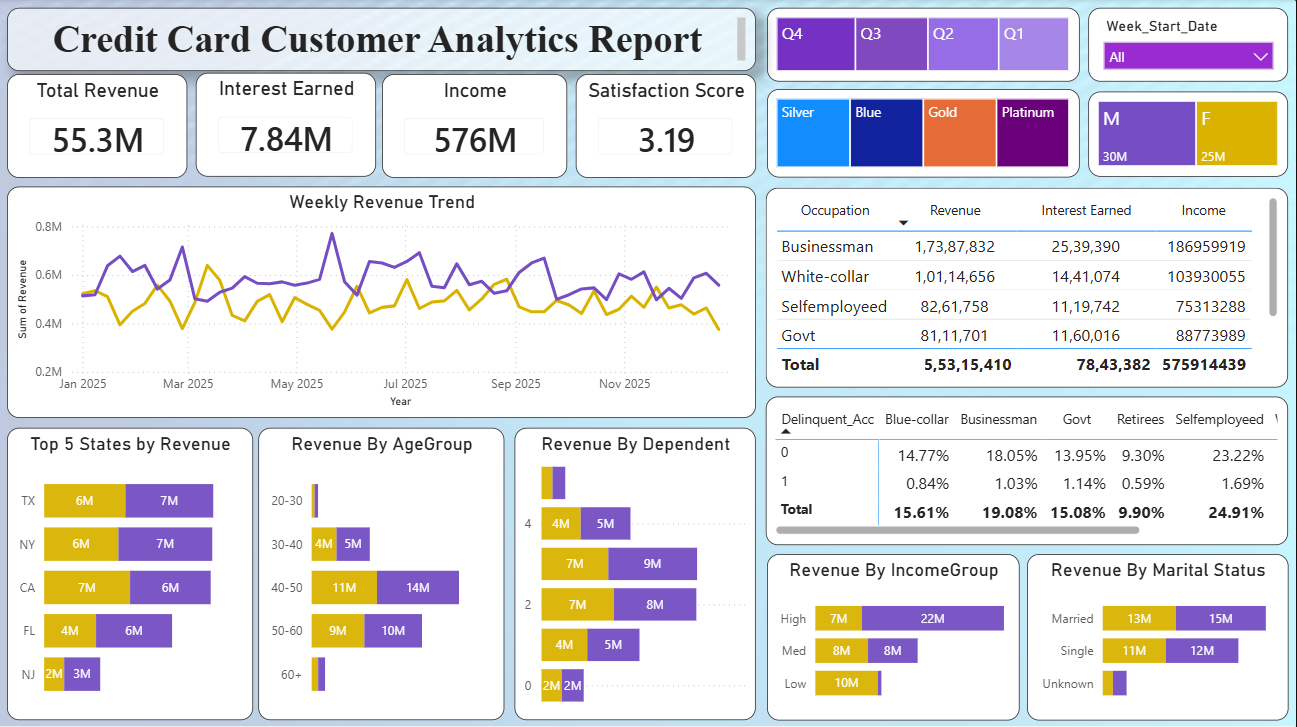
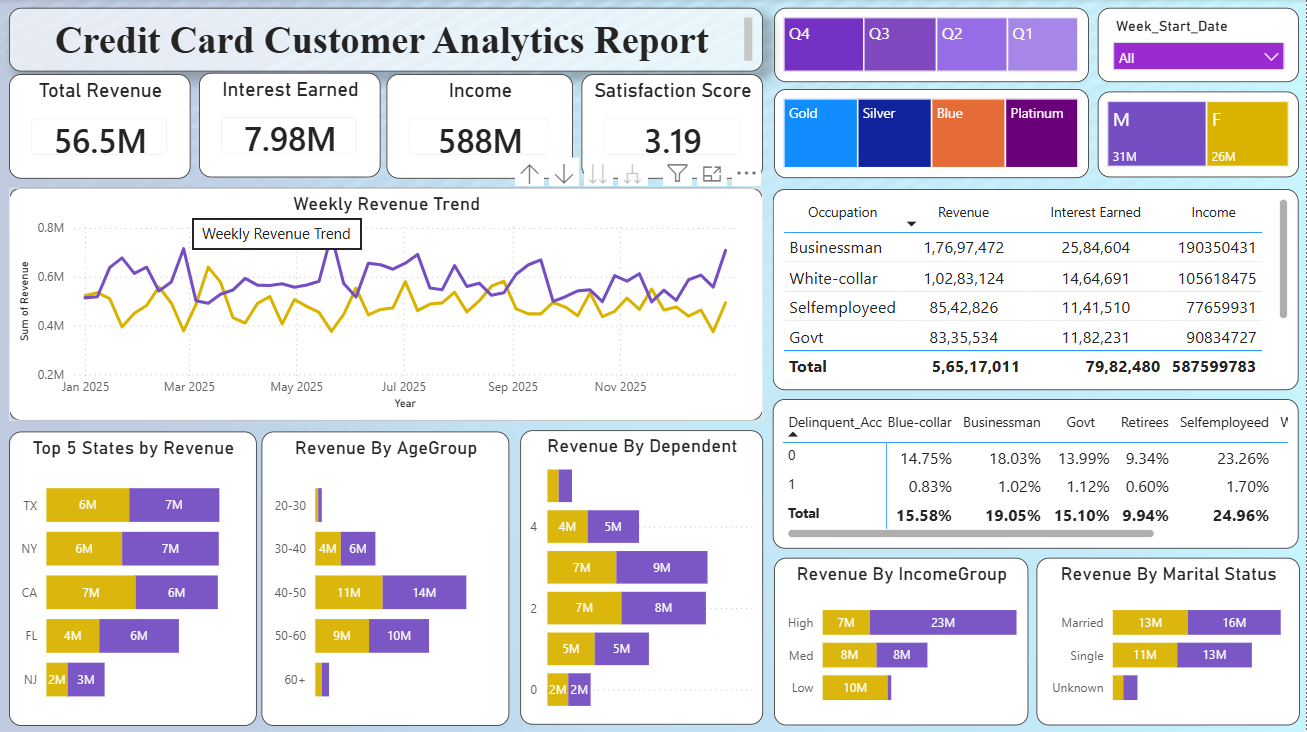
update readme and dir

diff --git a/README.md b/README.md
@@ -13,6 +13,23 @@ A credit card company has two kinds of data: information about its customers (ag
 - Risk and credit teams monitoring activation and delinquency rates
 - Leadership reviewing overall portfolio health
 
+## Key Objectives
+
+- Centralize customer and transaction data in a relational database rather than flat files
+- Build a data model that supports slicing revenue and risk by demographic and card attributes
+- Deliver two focused report pages — customer analytics and transaction analytics — instead of one overloaded dashboard
+- Keep the model simple enough (two tables, one relationship) to be maintainable and easy to extend
+
+## Automation, Time Savings & Decision-Making Benefits
+
+Moving from manual CSV analysis to a MySQL-to-Power BI pipeline automates the parts of reporting that would otherwise be repeated by hand:
+
+- **Automation** — data is loaded once via `LOAD DATA INFILE` and refreshed through Power BI rather than re-processed in spreadsheets each time
+- **Time savings** — filtering by quarter, card category, or gender is a slicer click instead of rebuilding a pivot table or query
+- **Decision-making** — metrics like activation rate and delinquency rate are visible continuously rather than calculated on request, so trends can be caught earlier
+
+Cost reduction and customer experience improvements would depend on how this is deployed inside an actual business (e.g., reduced analyst hours, faster response to at-risk segments) — this project demonstrates the reporting foundation those gains would be built on, rather than measuring them directly, since it runs on synthetic data.
+
 ## Business Insights
 
 The Credit Card Analytics Dashboard provides an executive-level view of customer behavior, transaction performance, revenue generation, and portfolio health. Built in Power BI, it lets stakeholders monitor KPIs, identify revenue drivers, and support data-driven decisions across the business.